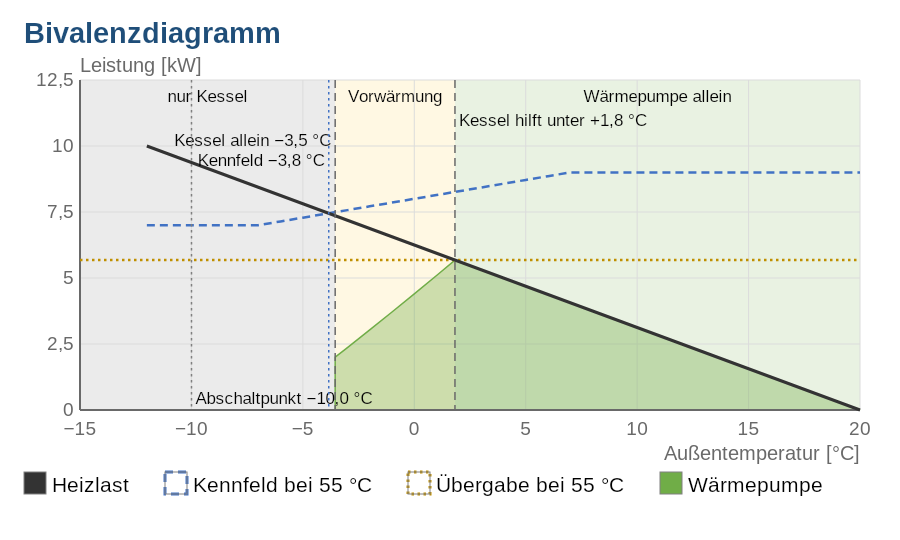
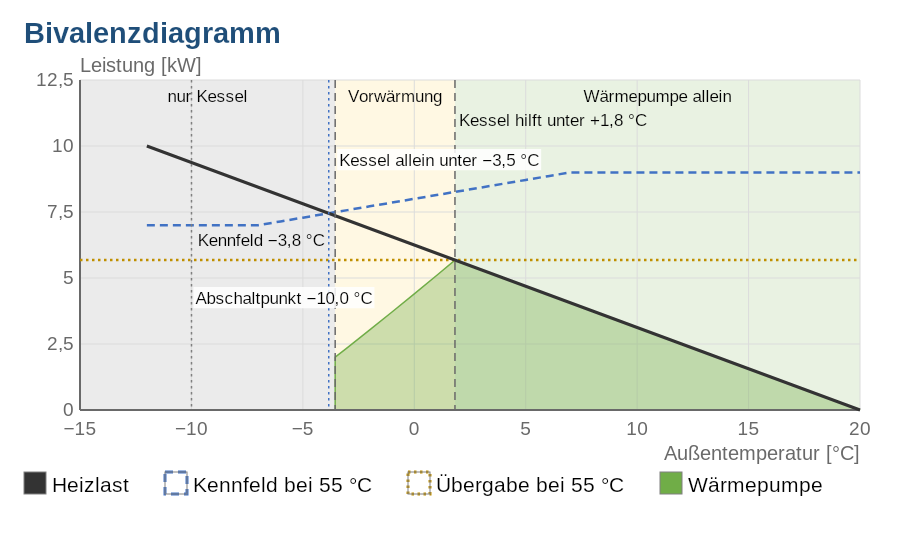
Diagramme: Trennung an der Kompositionsfuge, Bivalenzmarken frei
Brückennamen trennen gierig von hinten, Kompositionsfuge vor Silben-
fuge („Energie-/kosten“). Bivalenzmarken suchen einen Platz ohne
Kreuzung mit Heizlast, Kennfeld, Übergabe, Wärmepumpe, fremder Marke
oder Beschriftung; kreuzt jeder Platz eine Marke, hell hinterlegt.
Wiki-Probe „Kessel allein unter …“; Wiki-Bilder Bivalenz und
Kapitalwert-Brücke neu. Messlatte 2026-10-16 nachgeschrieben.

Claude-Session: https://claude.ai/code/session_01GmWb8FKp9ZAxRprjxHLLAW

diff --git a/EPOS.Kern/Allgemein/Bericht/ChartRenderer.Bivalenzdiagramm.cs b/EPOS.Kern/Allgemein/Bericht/ChartRenderer.Bivalenzdiagramm.cs
@@ -163,8 +163,31 @@ namespace WindowsFormsApplication1
                           Stift(Farbrolle.BEDARF, 3f, null, Strichverbindung.Rund)));
 
             // Die Marken: senkrechte Linien, die Beschriftung je Art in eigener Zeile, rechts der Linie oder - wo der
-            // Platz rechts nicht reicht oder die Art es verlangt - links davon.
+            // Platz rechts nicht reicht oder die Art es verlangt - links davon. Eine Beschriftung kreuzt keine Linie:
+            // Liegt ihr Platz auf Heizlast, Kennfeld, Übergabegrenze, Wärmepumpe, einer fremden Marke oder einer schon
+            // gesetzten Beschriftung, nimmt sie die andere Seite, sonst die nächste freie Zeile darunter (dann darüber).
+            // Kreuzt jeder Platz eine fremde Marke, steht sie auf dem ersten Platz, der nur Marken kreuzt, und
+            // hinterlegt sich hell; die Beschriftungen stehen deshalb über allen Markenlinien.
+            var kurven = new List<SKPoint[]>
+            {
+                modell.Heizlast.Select(p => new SKPoint(X(p.AussenC), Y(p.Leistung))).ToArray(),
+                modell.Kennfeld.Select(p => new SKPoint(X(p.AussenC), Y(p.Leistung))).ToArray(),
+            };
+            if (modell.Waermepumpe.Count >= 2)
+            {
+                // Die Fläche der Wärmepumpe mit ihren senkrechten Rändern bis zur Nulllinie.
+                var wp = new List<SKPoint> { new SKPoint(X(modell.Waermepumpe[0].AussenC), Y(0.0)) };
+                wp.AddRange(modell.Waermepumpe.Select(p => new SKPoint(X(p.AussenC), Y(p.Leistung))));
+                wp.Add(new SKPoint(X(modell.Waermepumpe[modell.Waermepumpe.Count - 1].AussenC), Y(0.0)));
+                kurven.Add(wp.ToArray());
+            }
+            if (Endlich(modell.Uebergabegrenze))
+                kurven.Add(new[] { new SKPoint(rc.Left, Y(modell.Uebergabegrenze)), new SKPoint(rc.Right, Y(modell.Uebergabegrenze)) });
+            var gesetzt = new List<SKRect>();
+            var beschriftungen = new List<(BivalenzMarke Marke, string Text, float X, float Y, bool Hinterlegt)>();
             using (var f = Schrift(13f))
+            {
+                float hoehe = TextHoehe(f);
                 foreach (BivalenzMarke m in modell.Marken)
                 {
                     float x = X(m.AussenC);
@@ -177,15 +200,46 @@ namespace WindowsFormsApplication1
                     };
                     string text = string.Format(Zahlkultur, vorlage ?? "", Grad(m.AussenC));
                     float breite = f.MeasureText(text);
-                    if (!links && x + 4f + breite > rc.Right) links = true;
-                    if (links && x - 4f - breite < rc.Left) links = false;
-                    float tx = links ? x - 4f - breite : x + 4f;
-                    z.Markiert("marke:" + m.Art, text, zm =>
+                    var marken = modell.Marken.Where(n => !ReferenceEquals(n, m))
+                        .Select(n => new[] { new SKPoint(X(n.AussenC), rc.Top), new SKPoint(X(n.AussenC), rc.Bottom) }).ToList();
+                    float Anfang(bool l) => l ? x - 4f - breite : x + 4f;
+                    bool Passt(bool l) => l ? x - 4f - breite >= rc.Left : x + 4f + breite <= rc.Right;
+                    bool Frei(bool l, float zy, bool auchMarken)
                     {
-                        zm.Linie(x, rc.Top, x, rc.Bottom, Stift(rolle, 1.5f, Strichfolge(art)));
-                        Text(zm, text, f, Farbrolle.TEXT, tx, zeileY);
-                    });
+                        var r = new SKRect(Anfang(l) - 2f, zy - 2f, Anfang(l) + breite + 2f, zy + hoehe + 2f);
+                        return Passt(l) && !gesetzt.Any(g => g.IntersectsWith(r)) && !kurven.Any(k => Kreuzt(k, r))
+                               && (!auchMarken || !marken.Any(k => Kreuzt(k, r)));
+                    }
+                    var zeilen = new List<float> { zeileY };
+                    for (float zy = zeileY + 20f; zy + hoehe <= rc.Bottom - 2f; zy += 20f) zeilen.Add(zy);
+                    for (float zy = zeileY - 20f; zy >= rc.Top + 2f; zy -= 20f) zeilen.Add(zy);
+                    if (!Passt(links)) links = !links;
+                    float tx = Anfang(links), ty = zeileY;
+                    bool hinterlegt = false, gefunden = false;
+                    foreach (bool auchMarken in new[] { true, false })
+                        foreach (float zy in zeilen)
+                            foreach (bool l in new[] { links, !links })
+                                if (!gefunden && Frei(l, zy, auchMarken))
+                                {
+                                    tx = Anfang(l); ty = zy; gefunden = true; hinterlegt = !auchMarken;
+                                }
+                    gesetzt.Add(new SKRect(tx, ty, tx + breite, ty + hoehe));
+                    beschriftungen.Add((m, text, tx, ty, hinterlegt));
+                    z.Markiert("marke:" + m.Art, text, zm => zm.Linie(x, rc.Top, x, rc.Bottom, Stift(rolle, 1.5f, Strichfolge(art))));
                 }
+                foreach (var bs in beschriftungen)
+                    z.Markiert("marke:" + bs.Marke.Art, bs.Text, zm =>
+                    {
+                        if (bs.Hinterlegt)
+                        {
+                            float br = f.MeasureText(bs.Text);
+                            zm.Pfad(new[] { new Punkt(bs.X - 2f, bs.Y - 1f), new Punkt(bs.X + br + 2f, bs.Y - 1f),
+                                            new Punkt(bs.X + br + 2f, bs.Y + hoehe + 1f), new Punkt(bs.X - 2f, bs.Y + hoehe + 1f) },
+                                    true, null, Flaeche(Farbton.Aus(Farbrolle.HINTERGRUND).MitDeckung(217)));
+                        }
+                        Text(zm, bs.Text, f, Farbrolle.TEXT, bs.X, bs.Y);
+                    });
+            }
 
             var legende = new List<Segment>
             {
@@ -199,6 +253,23 @@ namespace WindowsFormsApplication1
                 legende.Add(new Segment(t.Stunden, 0, C_SERIEN[0]) { Ton = Farbton.Aus(Farbrolle.SERIE_5) });
             Legende(z, legende, 24f, rc.Bottom + 62f, W - 30f);
             return z;
+        }
+
+        /// <summary>Ob der Linienzug <paramref name="zug"/> das Rechteck <paramref name="r"/> berührt (abgetastet je Pixel).</summary>
+        private static bool Kreuzt(SKPoint[] zug, SKRect r)
+        {
+            for (int i = 0; i + 1 < zug.Length; i++)
+            {
+                SKPoint a = zug[i], b = zug[i + 1];
+                if (!float.IsFinite(a.X) || !float.IsFinite(a.Y) || !float.IsFinite(b.X) || !float.IsFinite(b.Y)) continue;
+                int n = Math.Max(1, (int)Math.Ceiling(Math.Max(Math.Abs(b.X - a.X), Math.Abs(b.Y - a.Y))));
+                for (int k = 0; k <= n; k++)
+                {
+                    float s = (float)k / n;
+                    if (r.Contains(a.X + (b.X - a.X) * s, a.Y + (b.Y - a.Y) * s)) return true;
+                }
+            }
+            return false;
         }
     }
 }

diff --git a/EPOS.Kern/Allgemein/Bericht/ChartRenderer.cs b/EPOS.Kern/Allgemein/Bericht/ChartRenderer.cs
@@ -6960,8 +6960,9 @@ namespace WindowsFormsApplication1
 
         /// <summary>
         /// <b>Der Trennstrich als Ausweg des Umbruchs:</b> Jedes Wort, das auch allein breiter ist als
-        /// <paramref name="breite"/>, wird mit „-“ zerlegt — an der Silbenfuge (<see cref="Silbenfuge"/>), deren
-        /// breiterer Teil am schmalsten ist („Ersatz-“ / „beschaffungen“), ohne Fuge am längsten Anfang, der passt;
+        /// <paramref name="breite"/>, wird mit „-“ zerlegt — gierig von hinten an der spätesten Fuge, deren Anfang samt „-“
+        /// noch passt — eine Kompositionsfuge (<see cref="Kompositionsfuge"/>) vor einer Silbenfuge (<see cref="Silbenfuge"/>),
+        /// „Energie-“ / „kosten“ —, ohne Fuge am längsten Anfang, der passt;
         /// mindestens drei Zeichen vorn und hinten. Passt jedes Wort, kommt der Text unverändert zurück.
         /// </summary>
         private static string Zerlegt(string text, Schriftmass f, float breite)
@@ -6975,20 +6976,36 @@ namespace WindowsFormsApplication1
                 {
                     int laengster = rest.Length - 3;
                     while (laengster > 3 && f.MeasureText(rest.Substring(0, laengster) + "-") > breite) laengster--;
-                    int schnitt = laengster;
-                    float bester = float.MaxValue;
-                    for (int s = 3; s <= laengster; s++)
-                    {
-                        if (!Silbenfuge(rest, s)) continue;
-                        float breiter = Math.Max(f.MeasureText(rest.Substring(0, s) + "-"), f.MeasureText(rest.Substring(s)));
-                        if (breiter < bester) { bester = breiter; schnitt = s; }
-                    }
+                    // Gierig von hinten: die späteste Kompositionsfuge, die passt, sonst die späteste
+                    // Silbenfuge, sonst der längste Anfang („Energie-“ / „kosten“, nicht „Ener-“ / „giekosten“).
+                    int schnitt = -1;
+                    for (int s = laengster; s >= 3 && schnitt < 0; s--)
+                        if (Kompositionsfuge(rest, s)) schnitt = s;
+                    for (int s = laengster; s >= 3 && schnitt < 0; s--)
+                        if (Silbenfuge(rest, s)) schnitt = s;
+                    if (schnitt < 0) schnitt = laengster;
                     teile.Add(rest.Substring(0, schnitt) + "-");
                     rest = rest.Substring(schnitt);
                 }
                 teile.Add(rest);
             }
             return string.Join(" ", teile);
+        }
+
+        /// <summary>Grundwörter, vor denen ein Kompositum der Diagrammnamen getrennt wird („Energie|kosten“, „Ersatz|beschaffungen“).</summary>
+        private static readonly string[] GRUNDWOERTER =
+        {
+            "kosten", "beschaffung", "erlös", "investition", "wert", "betrieb", "vergütung", "förderung", "zuschlag",
+            "abgabe", "verbrauch", "bedarf", "leistung", "speicher", "pumpe", "kessel", "strom", "wärme", "energie"
+        };
+
+        /// <summary>Ein Schnitt vor <paramref name="i"/> liegt an einer Kompositionsfuge: dahinter beginnt ein Grundwort, davor stehen mindestens drei Zeichen.</summary>
+        private static bool Kompositionsfuge(string w, int i)
+        {
+            if (i < 3 || i > w.Length - 3 || !char.IsLetter(w[i - 1])) return false;
+            foreach (string g in GRUNDWOERTER)
+                if (w.Length - i >= g.Length && string.Compare(w, i, g, 0, g.Length, StringComparison.OrdinalIgnoreCase) == 0) return true;
+            return false;
         }
 
         /// <summary>Ein Schnitt vor <paramref name="i"/> trennt zwei Konsonanten, deren zweiter vor einem Vokal steht.</summary>

diff --git a/Proben/ChartProben/Program.Bivalenzdiagramm.cs b/Proben/ChartProben/Program.Bivalenzdiagramm.cs
@@ -73,7 +73,7 @@ namespace ChartProben
         private static BivalenzdiagrammTexte BivalenzWikitexte() => new BivalenzdiagrammTexte
         {
             ErsterBivalenzpunkt = "Kessel hilft unter {0} °C",
-            ZweiterBivalenzpunkt = "Kessel allein {0} °C",
+            ZweiterBivalenzpunkt = "Kessel allein unter {0} °C",
             NachKennfeld = "Kennfeld {0} °C",
         };
 

diff --git a/Proben/ChartProben/LIESMICH.md b/Proben/ChartProben/LIESMICH.md
@@ -654,14 +654,17 @@ Die Stufen einer dichten Dauerlinie zählen Ränge, keine Tage; sie trägt desha
 **Abstände.** Steht ein Achsentitel im Bild, beginnt die Kopflegende der Zeitreihenbilder (Erzeugerstapel,
 normierte Ganglinie, Verlaufsbild) bei 58 statt 66 Bildpunkten (`LegendeOben`) und berührt den Achsentitel nicht
 mehr. Die Kennlinienlegende schreibt „35 °C“ mit Abstand. Die Namen der Kapitalwert-Brücke trennt ein Wort, das
-allein breiter ist als seine Spalte, an einer Silbenfuge („Ersatz-“ / „beschaffungen“, `Zerlegt`); ein Name steht
+allein breiter ist als seine Spalte, gierig von hinten an der spätesten Fuge, die noch passt, eine Kompositionsfuge
+vor einer Silbenfuge („Energie-“ / „kosten“, „Ersatz-“ / „beschaffungen“, `Zerlegt`); ein Name steht
 in höchstens drei Zeilen, die Schrift bleibt 15 pt, und braucht ein Name die dritte Zeile, wächst das Bild um so
 viel, wie Fuß und Legende tiefer rücken. Ein Minderungsbetrag steht unter seiner Säule, nie auf der Nulllinie.
 
 **Bivalenzmarken.** Die Vorgabetexte (`BivalenzdiagrammTexte`, `BER_BILD_BIVALENZ_MARKE_*`) sprechen wie die
 Wiki-Fassung: „Kessel hilft unter … °C“, „Kessel allein unter … °C“, „Kennfeld … °C“; die Kennzahl- und
-Tabellentexte der Bivalenzpunkte ebenso; die Probebilder des Bivalenzdiagramms tragen die neuen Marken. Die
-Wiki-Fassung (`--wiki`) bleibt unverändert.
+Tabellentexte der Bivalenzpunkte ebenso; die Probebilder und die Wiki-Fassung (`--wiki`) lauten gleich. Eine
+Markenbeschriftung kreuzt keine Linie: Liegt ihr Platz auf Heizlast, Kennfeld, Übergabegrenze, Wärmepumpenfläche,
+einer fremden Marke oder einer anderen Beschriftung, nimmt sie die andere Seite, sonst die nächste freie Zeile;
+kreuzt jeder Platz eine fremde Marke, steht sie hell hinterlegt über ihr.
 
 | Art | Probe | Aussage |
 |---|---|---|
